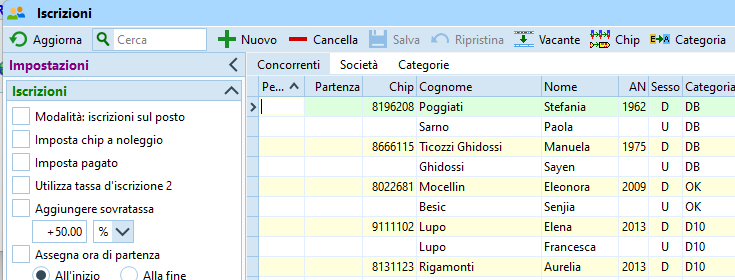
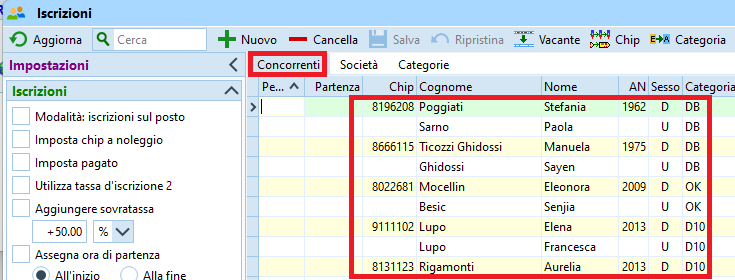
formattazioni

Changed region(s): [[0.449, 0.3143, 0.9878, 1.0], [0.3293, 0.1714, 0.449, 0.2857]]

diff --git a/docs/software/oe12/creazione_gara.md b/docs/software/oe12/creazione_gara.md
@@ -101,7 +101,7 @@ Per evitare continue richieste di verifica da parte del programma, controlla sub
 
 ??? Example "Utilizzo di OL-Events"
     Le categorie vengono importate da OL-Events.  
-    *Nota*: è possibile eseguire questo passo più volte.
+    **Nota**: è possibile eseguire questo passo più volte.
 
     1. Recupera il Bearer Token da OL-Events  
          
@@ -165,7 +165,7 @@ Per evitare continue richieste di verifica da parte del programma, controlla sub
         1. Seleziona il tab `Categorie`.  
 
         1. Clicca il bottone `+ Nuovo` e inserisci tutte le categorie.  
-        *Nota*: per gare TMO mantieni il numero e la denominazione corta come definite dal SOLV e la tassa d'iscrizione come specificato nel RECO (vedi immagine).  
+        **Nota**: per gare TMO mantieni il numero e la denominazione corta come definite dal SOLV e la tassa d'iscrizione come specificato nel RECO (vedi immagine).  
         I campi `Età` e `Sesso` non vengono usati.  
         ![Categorie](inc/categorie.png)
 
@@ -173,7 +173,7 @@ Per evitare continue richieste di verifica da parte del programma, controlla sub
 
 ??? Example "Utilizzo di OL-Events"
     Le iscrizioni vengono importate da OL-Events.  
-    *Nota*: è possibile eseguire questi passi più volte già prima della chiusura delle iscrizioni.
+    **Nota**: è possibile eseguire questi passi più volte già prima della chiusura delle iscrizioni.
 
     1. Si suppone che OE12 sia già connesso alla gara corretta in OL-Events come descritto [sopra](#categorie).  
       
@@ -188,10 +188,10 @@ Per evitare continue richieste di verifica da parte del programma, controlla sub
     ![OL-Events conferma l'import delle categorie](inc/olevents_iscrizioni_conferma.png)  
       
     1. Verifica che non ci siano messaggi di errore.  
-    *Nota*: è normale che alcuni campi del file XML vengano ignorati.  
+    **Nota**: è normale che alcuni campi del file XML vengano ignorati.  
     ![OL-Events verifica import iscrizioni](inc/olevents_iscrizioni_verifica.png)  
       
-    1. Verifica le iscrizioni selezionando `Modifica > Iscrizioni` nel menu `Iscrizioni`.  
+    1. Verifica le iscrizioni nel tab `Concorrenti` selezionando `Modifica > Iscrizioni` nel menu `Iscrizioni`.  
     ![Iscrizioni](inc/iscrizioni.png)          
 
 
